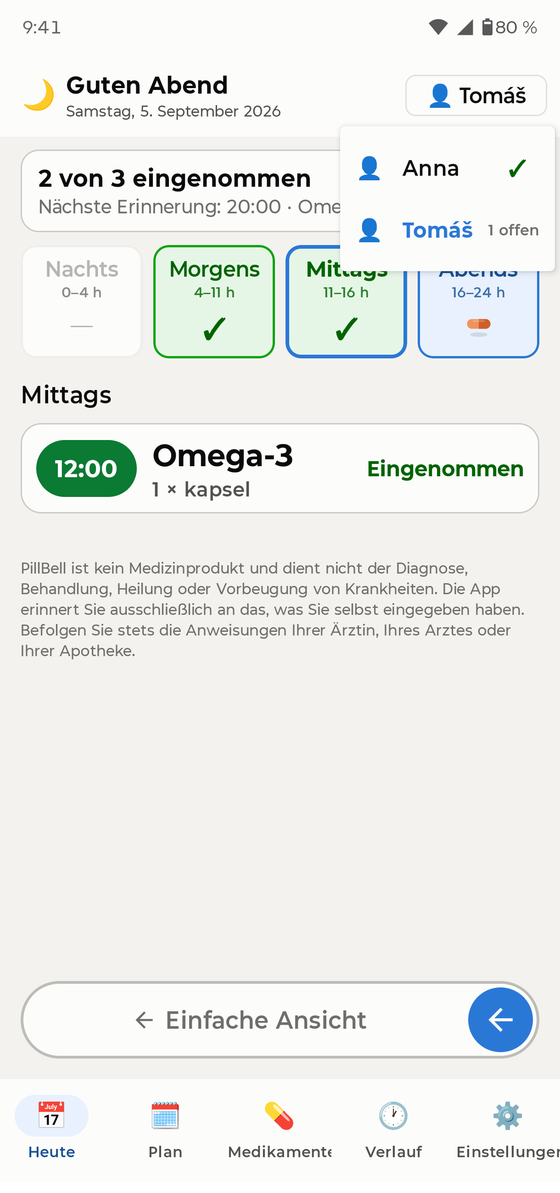
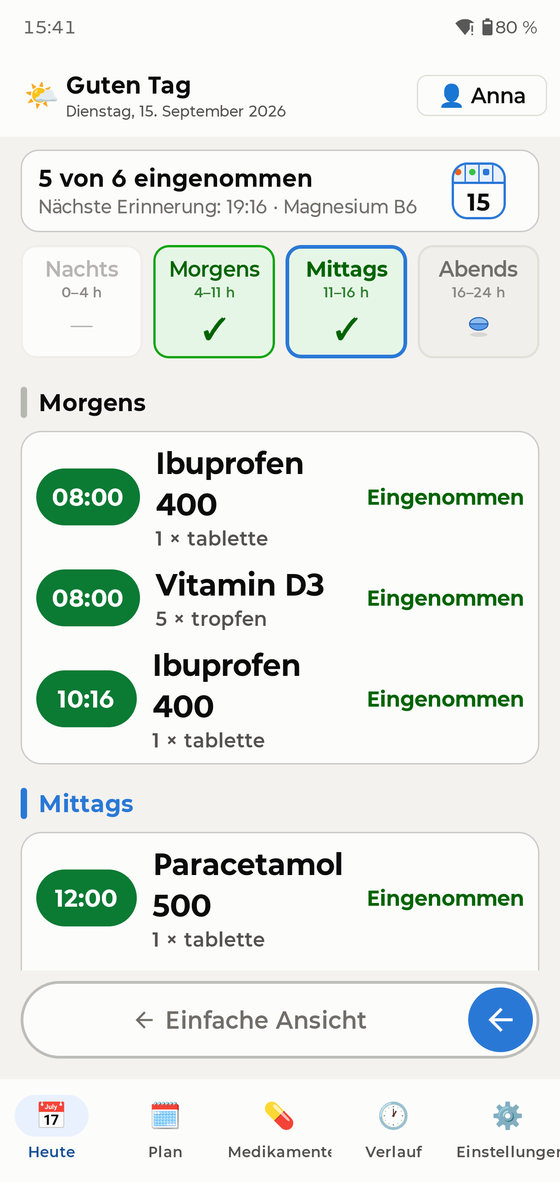
Guide: refreshed Today screenshots and a section on the weekly Plan
Today now lists the whole day, so the old bullet about tapping a
compartment to reveal its doses was simply wrong. Adds the weekly pill
box with a paragraph in all ten languages.

diff --git a/guide-uk.html b/guide-uk.html
@@ -86,10 +86,12 @@ PillBell не має доступу до інтернету й нічого не
 Ранок, Обід, Вечір. Зелена ✓ означає «готово»; іконки таблеток показують, що
 ще чекає.</p>
 <ul>
-  <li>Торкніться відділення, щоб побачити його прийоми.</li>
+  <li>Ви бачите <b>весь день одразу</b>, поділений на Ніч, Ранок, Обід і Вечір. Дотик до комірки прокручує список саме до цієї частини.</li>
   <li>Торкніться прийому, щоб <b>підтвердити або виправити</b>: Прийнято, Прийнято в інший час, Пропущено або назад «Не прийнято».</li>
   <li>Підтвердити прийом можна <b>будь-коли протягом дня</b>. Прийом більш ніж за 30 хвилин наперед чесно позначається «Прийнято раніше».</li>
 </ul>
+<div class="shot"><img src="img/en/plan.png" alt="" loading="lazy"></div>
+<p>Вкладка <b>План</b> показує <b>цілий тиждень як таблетницю</b>: стовпці — дні, рядки — частини дня. Зелена ✓ означає спорожнено, число — скільки доз чекає, нуль — що тоді нічого немає. Торкніться дня, щоб відкрити його розклад; проведіть убік для наступного тижня.</p>
 
 <h2 id="ring">Коли дзвонить</h2>
 <div class="shot"><img src="img/en/alarm_unlocked.png" alt="" loading="lazy"></div>

diff --git a/guide-it.html b/guide-it.html
@@ -87,10 +87,12 @@ mensili, a giorni alterni e dosi parziali o variabili («1 o 2 compresse»).</p>
 Notte, Mattina, Mezzogiorno, Sera. Una ✓ verde significa fatto; le icone delle
 pillole mostrano cosa aspetta ancora.</p>
 <ul>
-  <li>Toccate uno scomparto per vederne le dosi.</li>
+  <li>Vede <b>tutta la giornata in una volta</b>, divisa in Notte, Mattina, Mezzogiorno e Sera. Toccando uno scomparto l’elenco scorre fin lì.</li>
   <li>Toccate una dose per <b>confermarla o correggerla</b>: Presa, Presa a un'altra ora, Saltata, o di nuovo Non presa.</li>
   <li>Una dose si può confermare <b>in qualsiasi momento della giornata</b>. Prenderla con più di 30 minuti di anticipo viene registrato onestamente come «Presa in anticipo».</li>
 </ul>
+<div class="shot"><img src="img/en/plan.png" alt="" loading="lazy"></div>
+<p>La scheda <b>Piano</b> mostra <b>tutta la settimana come un portapillole</b>: le colonne sono i giorni, le righe i momenti della giornata. Un ✓ verde significa svuotato, un numero quante dosi attendono, uno zero che non c’è nulla. Tocchi un giorno per aprirne il dettaglio; scorra per la settimana successiva.</p>
 
 <h2 id="ring">Quando suona</h2>
 <div class="shot"><img src="img/en/alarm_unlocked.png" alt="" loading="lazy"></div>

diff --git a/guide-fr.html b/guide-fr.html
@@ -88,10 +88,12 @@ ou variables (« 1 à 2 comprimés »).</p>
 compartiments — Nuit, Matin, Midi, Soir. Un ✓ vert signifie « fait » ; les
 icônes de comprimés montrent ce qui attend encore.</p>
 <ul>
-  <li>Touchez un compartiment pour voir ses prises.</li>
+  <li>Vous voyez <b>toute la journée d’un coup</b>, répartie en Nuit, Matin, Midi et Soir. Toucher un compartiment fait défiler la liste jusque-là.</li>
   <li>Touchez une prise pour <b>la confirmer ou la corriger</b> : Pris, Pris à une autre heure, Sautée, ou retour à Non pris.</li>
   <li>Vous pouvez confirmer une prise <b>à tout moment de la journée</b>. La prendre plus de 30 minutes en avance est honnêtement noté « Pris en avance ».</li>
 </ul>
+<div class="shot"><img src="img/en/plan.png" alt="" loading="lazy"></div>
+<p>L’onglet <b>Plan</b> montre <b>toute la semaine comme un pilulier</b> : les colonnes sont les jours, les lignes les moments de la journée. Un ✓ vert signifie vidé, un chiffre le nombre de prises en attente, un zéro qu’il n’y a rien. Touchez un jour pour ouvrir son détail ; balayez pour la semaine suivante.</p>
 
 <h2 id="ring">Quand ça sonne</h2>
 <div class="shot"><img src="img/en/alarm_unlocked.png" alt="" loading="lazy"></div>

diff --git a/guide-de.html b/guide-de.html
@@ -88,10 +88,12 @@ Medikamente, jeden zweiten Tag sowie halbe und variable Dosen
 Morgen, Mittag, Abend. Ein grünes ✓ heißt „erledigt“; Tablettensymbole
 zeigen, was noch wartet.</p>
 <ul>
-  <li>Tippen Sie auf ein Fach, um seine Dosen zu sehen.</li>
+  <li>Sie sehen <b>den ganzen Tag auf einmal</b>, aufgeteilt in Nacht, Morgen, Mittag und Abend. Ein Tippen auf ein Fach scrollt die Liste dorthin.</li>
   <li>Tippen Sie auf eine Dosis, um sie <b>zu bestätigen oder zu korrigieren</b>: Eingenommen, Zu anderer Zeit eingenommen, Ausgelassen oder zurück auf Nicht eingenommen.</li>
   <li>Eine Dosis lässt sich <b>jederzeit am Tag</b> bestätigen. Mehr als 30 Minuten zu früh wird ehrlich als „Früher eingenommen“ vermerkt.</li>
 </ul>
+<div class="shot"><img src="img/de/plan.png" alt="" loading="lazy"></div>
+<p>Der Tab <b>Plan</b> zeigt <b>die ganze Woche als Tablettenbox</b>: Spalten sind Tage, Zeilen Tagesabschnitte. Ein grünes ✓ heißt geleert, eine Zahl sagt, wie viele Dosen warten, eine Null heißt nichts. Tippen Sie einen Tag an, um seinen Plan zu öffnen; wischen Sie zur nächsten Woche.</p>
 
 <h2 id="ring">Wenn es klingelt</h2>
 <div class="shot"><img src="img/de/alarm_unlocked.png" alt="" loading="lazy"></div>

diff --git a/guide-pt.html b/guide-pt.html
@@ -87,10 +87,12 @@ dias alternados e doses parciais ou variáveis («1 a 2 comprimidos»).</p>
 compartimentos — Noite, Manhã, Meio-dia, Tarde. Um ✓ verde significa feito;
 os ícones de comprimidos mostram o que ainda espera.</p>
 <ul>
-  <li>Toque num compartimento para ver as suas tomas.</li>
+  <li>Vê <b>o dia inteiro de uma vez</b>, dividido em Noite, Manhã, Meio-dia e Tarde. Tocar num compartimento desloca a lista até essa parte.</li>
   <li>Toque numa toma para <b>a confirmar ou corrigir</b>: Tomada, Tomada a outra hora, Saltada, ou de volta a Não tomada.</li>
   <li>Pode confirmar uma toma <b>a qualquer hora do dia</b>. Tomá-la mais de 30 minutos antes fica honestamente registado como «Tomada mais cedo».</li>
 </ul>
+<div class="shot"><img src="img/en/plan.png" alt="" loading="lazy"></div>
+<p>O separador <b>Plano</b> mostra <b>a semana inteira como uma caixa de comprimidos</b>: as colunas são dias e as linhas partes do dia. Um ✓ verde significa esvaziado, um número quantas tomas aguardam e um zero que não há nada. Toque num dia para abrir o detalhe; deslize para a semana seguinte.</p>
 
 <h2 id="ring">Quando toca</h2>
 <div class="shot"><img src="img/en/alarm_unlocked.png" alt="" loading="lazy"></div>

diff --git a/guide-pl.html b/guide-pl.html
@@ -86,10 +86,12 @@ drugi dzień oraz dawki połówkowe i zmienne („1 do 2 tabletek”).</p>
 Rano, Południe, Wieczór. Zielony ✓ znaczy „zrobione”; ikony tabletek pokazują,
 co jeszcze czeka.</p>
 <ul>
-  <li>Dotknij przegródki, aby zobaczyć jej dawki.</li>
+  <li>Widzisz <b>cały dzień naraz</b>, podzielony na Noc, Rano, Południe i Wieczór. Dotknięcie przegródki przewija listę do tej części dnia.</li>
   <li>Dotknij dawki, aby ją <b>potwierdzić lub poprawić</b>: Wzięte, Wzięte o innej porze, Pominięte, albo z powrotem Niewzięte.</li>
   <li>Dawkę można potwierdzić <b>o dowolnej porze dnia</b>. Wzięcie jej ponad 30 minut wcześniej zostanie uczciwie zapisane jako „Wzięte wcześniej”.</li>
 </ul>
+<div class="shot"><img src="img/en/plan.png" alt="" loading="lazy"></div>
+<p>Zakładka <b>Plan</b> pokazuje <b>cały tydzień jako kasetkę na leki</b>: kolumny to dni, wiersze pory dnia. Zielony ✓ oznacza opróżnione, liczba ile dawek czeka, zero że wtedy nic nie ma. Dotknij dnia, aby otworzyć jego rozpiskę; przesuń w bok, by przejść do kolejnego tygodnia.</p>
 
 <h2 id="ring">Gdy dzwoni</h2>
 <div class="shot"><img src="img/en/alarm_unlocked.png" alt="" loading="lazy"></div>

diff --git a/guide-es.html b/guide-es.html
@@ -87,10 +87,12 @@ mensuales, días alternos y dosis parciales o variables («1 o 2 comprimidos»).
 Noche, Mañana, Mediodía, Tarde. Un ✓ verde significa hecho; los iconos de
 pastillas muestran lo que aún espera.</p>
 <ul>
-  <li>Toque un compartimento para ver sus tomas.</li>
+  <li>Ve <b>todo el día de una vez</b>, dividido en Noche, Mañana, Mediodía y Tarde. Al tocar un compartimento la lista se desplaza hasta esa parte.</li>
   <li>Toque una toma para <b>confirmarla o corregirla</b>: Tomada, Tomada a otra hora, Saltada, o de vuelta a No tomada.</li>
   <li>Puede confirmar una toma <b>en cualquier momento del día</b>. Tomarla más de 30 minutos antes se registra honestamente como «Tomada antes».</li>
 </ul>
+<div class="shot"><img src="img/en/plan.png" alt="" loading="lazy"></div>
+<p>La pestaña <b>Plan</b> muestra <b>toda la semana como un pastillero</b>: las columnas son días y las filas momentos del día. Un ✓ verde significa vaciado, un número cuántas tomas esperan y un cero que no hay nada. Toque un día para abrir su detalle; deslice para la semana siguiente.</p>
 
 <h2 id="ring">Cuando suena</h2>
 <div class="shot"><img src="img/en/alarm_unlocked.png" alt="" loading="lazy"></div>

diff --git a/guide-nl.html b/guide-nl.html
@@ -87,10 +87,12 @@ medicijnen, om de dag, en halve of variabele doses („1 à 2 tabletten”).</p>
 Ochtend, Middag, Avond. Een groene ✓ betekent klaar; pil-icoontjes tonen wat
 nog wacht.</p>
 <ul>
-  <li>Tik op een vakje om de doses te zien.</li>
+  <li>U ziet <b>de hele dag in één keer</b>, verdeeld in Nacht, Ochtend, Middag en Avond. Op een vakje tikken scrolt de lijst daarheen.</li>
   <li>Tik op een dosis om die <b>te bevestigen of te corrigeren</b>: Ingenomen, Op een ander tijdstip ingenomen, Overgeslagen, of terug naar Niet ingenomen.</li>
   <li>U kunt een dosis <b>op elk moment van de dag</b> bevestigen. Meer dan 30 minuten te vroeg innemen wordt eerlijk genoteerd als „Eerder ingenomen”.</li>
 </ul>
+<div class="shot"><img src="img/en/plan.png" alt="" loading="lazy"></div>
+<p>Het tabblad <b>Plan</b> toont <b>de hele week als medicijndoos</b>: kolommen zijn dagen, rijen dagdelen. Een groene ✓ betekent geleegd, een getal hoeveel doses wachten, een nul dat er niets is. Tik op een dag om het overzicht te openen; veeg opzij voor de volgende week.</p>
 
 <h2 id="ring">Als het afgaat</h2>
 <div class="shot"><img src="img/en/alarm_unlocked.png" alt="" loading="lazy"></div>

diff --git a/guide-cs.html b/guide-cs.html
@@ -86,10 +86,12 @@ cykly typu 21/7, týdenní i měsíční léky, obden i poloviční a proměnné
 Poledne, Večer. Zelená ✓ znamená vysypáno; ikonky pilulek ukazují, co ještě
 čeká.</p>
 <ul>
-  <li>Klepnutím na přihrádku zobrazíte její dávky.</li>
+  <li>Vidíte <b>celý den najednou</b>, rozdělený na Noc, Ráno, Poledne a Večer. Klepnutí na přihrádku seznam posune na tu část dne.</li>
   <li>Klepnutím na dávku ji <b>potvrdíte nebo opravíte</b>: Vzato, Vzato v jiný čas, Vynecháno, nebo zpět na Nevzato.</li>
   <li>Dávku lze potvrdit <b>kdykoli během dne</b>. Vzetí o víc než 30 minut dřív se poctivě zapíše jako „Vzato dřív“.</li>
 </ul>
+<div class="shot"><img src="img/cs/plan.png" alt="" loading="lazy"></div>
+<p>Záložka <b>Plán</b> ukazuje <b>celý týden jako dávkovač</b>: sloupce jsou dny, řádky části dne. Zelená ✓ znamená vysypáno, číslo kolik léků čeká, nula že tehdy nic neberete. Klepnutím na den se dole rozbalí jeho rozpis, přejetím do strany přejdete na další týden.</p>
 
 <h2 id="ring">Když zvoní</h2>
 <div class="shot"><img src="img/cs/alarm_unlocked.png" alt="" loading="lazy"></div>

diff --git a/guide.html b/guide.html
@@ -85,10 +85,12 @@ half or variable doses (“1 or 2 tablets”).</p>
 Night, Morning, Midday, Evening. A green ✓ means the compartment is done;
 pill icons show what is still waiting.</p>
 <ul>
-  <li>Tap a compartment to see its doses.</li>
+  <li>You see <b>the whole day at once</b>, split into Night, Morning, Midday and Evening. Tapping a compartment scrolls the list to that part.</li>
   <li>Tap a dose to <b>confirm or fix it</b>: Taken, Taken at a different time, Skipped, or back to Not taken.</li>
   <li>You can confirm a dose <b>any time during the day</b>. Taking it more than 30 minutes early is recorded honestly as “Taken early”.</li>
 </ul>
+<div class="shot"><img src="img/en/plan.png" alt="" loading="lazy"></div>
+<p>The <b>Plan</b> tab shows <b>the whole week as a pill box</b>: columns are days, rows are parts of the day. A green ✓ means emptied, a number says how many doses are waiting, a zero means nothing is due then. Tap a day to open its schedule below; swipe sideways for the next week.</p>
 
 <h2 id="ring">When it rings</h2>
 <div class="shot"><img src="img/en/alarm_unlocked.png" alt="" loading="lazy"></div>
